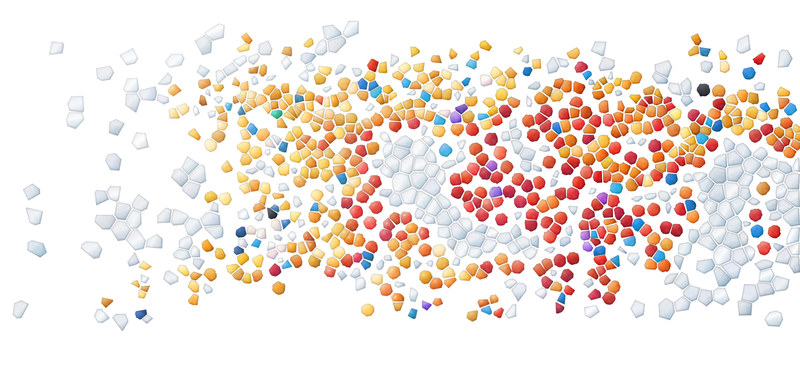
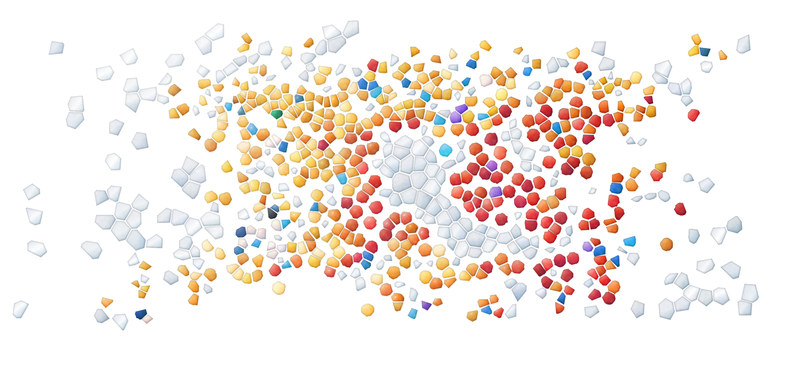
Keep page-header mosaics inside the content column
The tile images now thin out toward the right as well as the left, and end at
the right edge of the content instead of running through the page margin.

diff --git a/CLAUDE.md b/CLAUDE.md
@@ -93,7 +93,7 @@ Top nav (5 items): **Home · Research · People · Publications · Join.**
 - Mocks in `docs/website-mocks.jsx` are pixel-level intent — match the visual output, not the React structure. Astro components, plain HTML+CSS where possible, React islands only when needed.
 - Real lab data drives the visuals. The glass-mosaic images in `public/mosaic/` are Xenium sections from the HGSC cohort, rendered one tile per cell, coloured by cell type. The renderer and region scripts live in `~/Desktop/Mosaic video/glass/`; its `SPEC.md` explains them.
   - `home-hero.webp`: 1.2 × 0.7 mm of SP24_24824, mirrored so the tissue sits on the right. `home-shimmer.json` holds the same tiles' outlines for the shimmer.
-  - `header-*-{800,1600,2400}.jpg`: one set per inside page, rendered at 4 px/µm on a pale floor (`?ground=clear&pale=1`), thinned toward the left so the tiles fade into white, then flattened onto white. They are saved as JPEGs without chroma subsampling: lossy WebP's half-resolution colour frayed the tile edges against white. `PageHeader` serves them with `srcset`.
+  - `header-*-{800,1600,2400}.jpg`: one set per inside page, rendered at 4 px/µm on a pale floor (`?ground=clear&pale=1`), thinned toward the left, top and bottom, and over a shorter distance toward the right, so the tiles fade into white on every side; then flattened onto white. `PageHeader` places the image inside the content column, its right edge at the column's edge, not in the page margin. They are saved as JPEGs without chroma subsampling: lossy WebP's half-resolution colour frayed the tile edges against white. `PageHeader` serves them with `srcset`.
   - `q-*-he.webp`, `q-*-tiles.webp`, `q-*.json`: the homepage question cards (`QuestionTiles.astro`). Each is a 300 × 167 µm window of a deck region with real cell outlines and 2 px/µm H&E. The toned H&E shows at rest. On hover (or once in view on touch screens) the tiles fade in over it, each in place: the question's cell types first, then the other cells, then the background. No drop or other movement; David didn't like it.
   - `card-ovarian-he-*.jpg`: the ovarian card on the Research page, the H&E of OTB_2384_roi06 toned to slate on white. The coloured tiles are kept for the homepage and the page headers, so they don't appear everywhere.
   - Research page layout: each disease card carries its own three questions; the two cards share one row grid (`grid-template-rows: subgrid`), so their questions line up. No statistic on the cards. The four approach pillars sit in one row.
